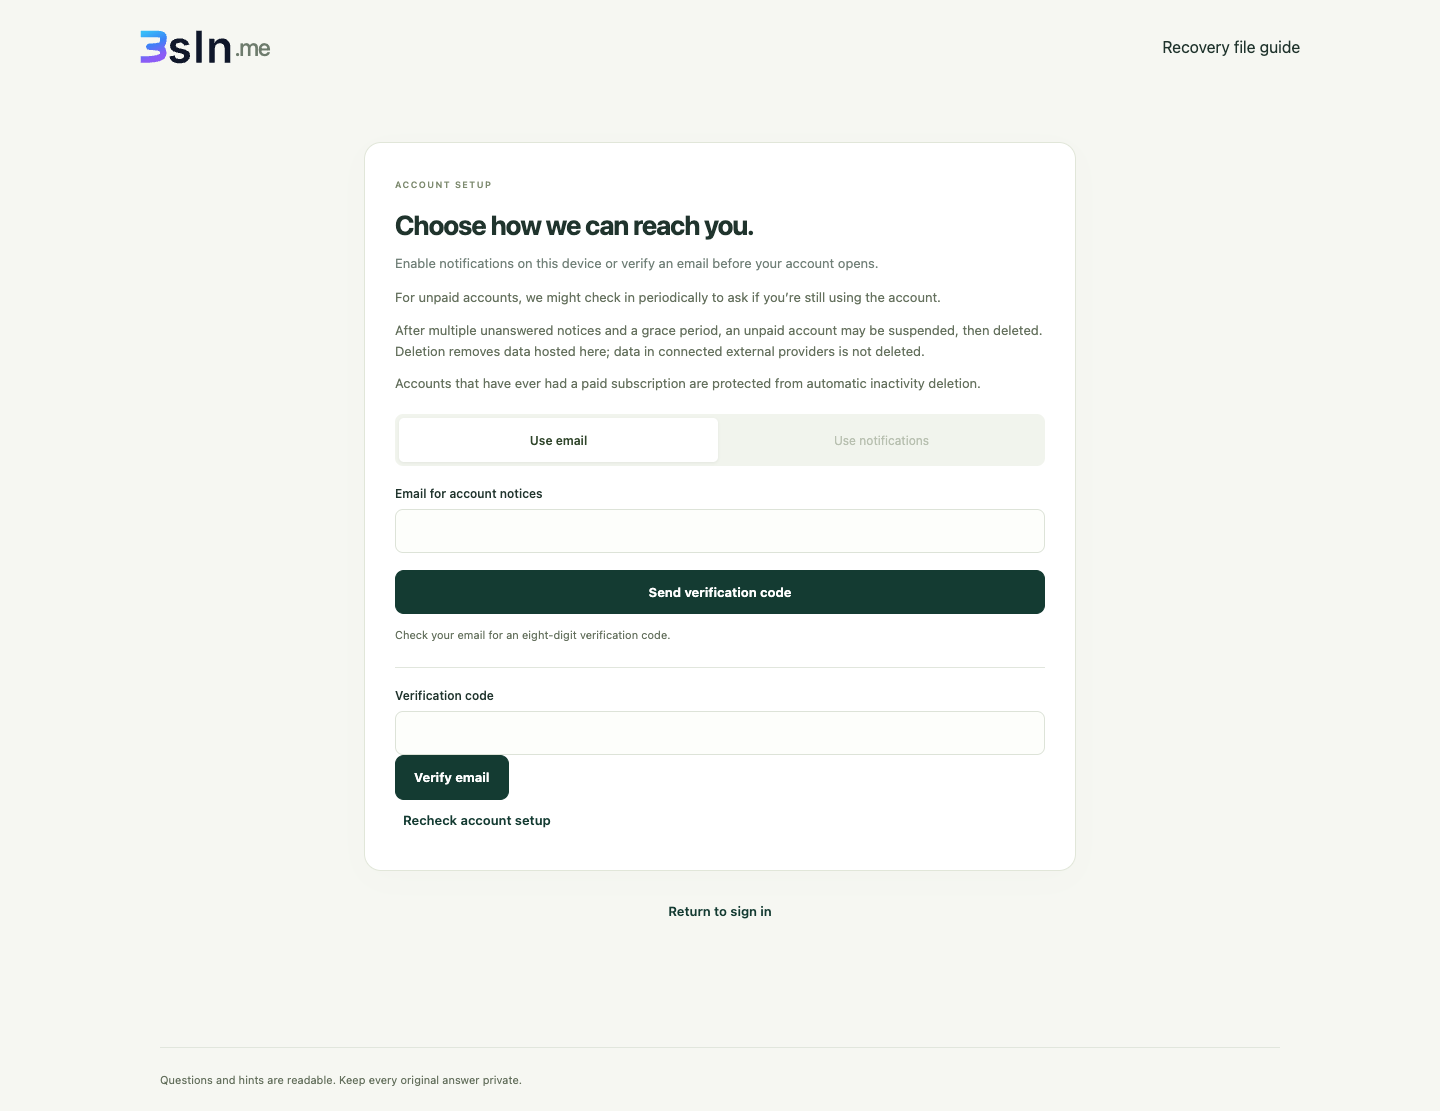
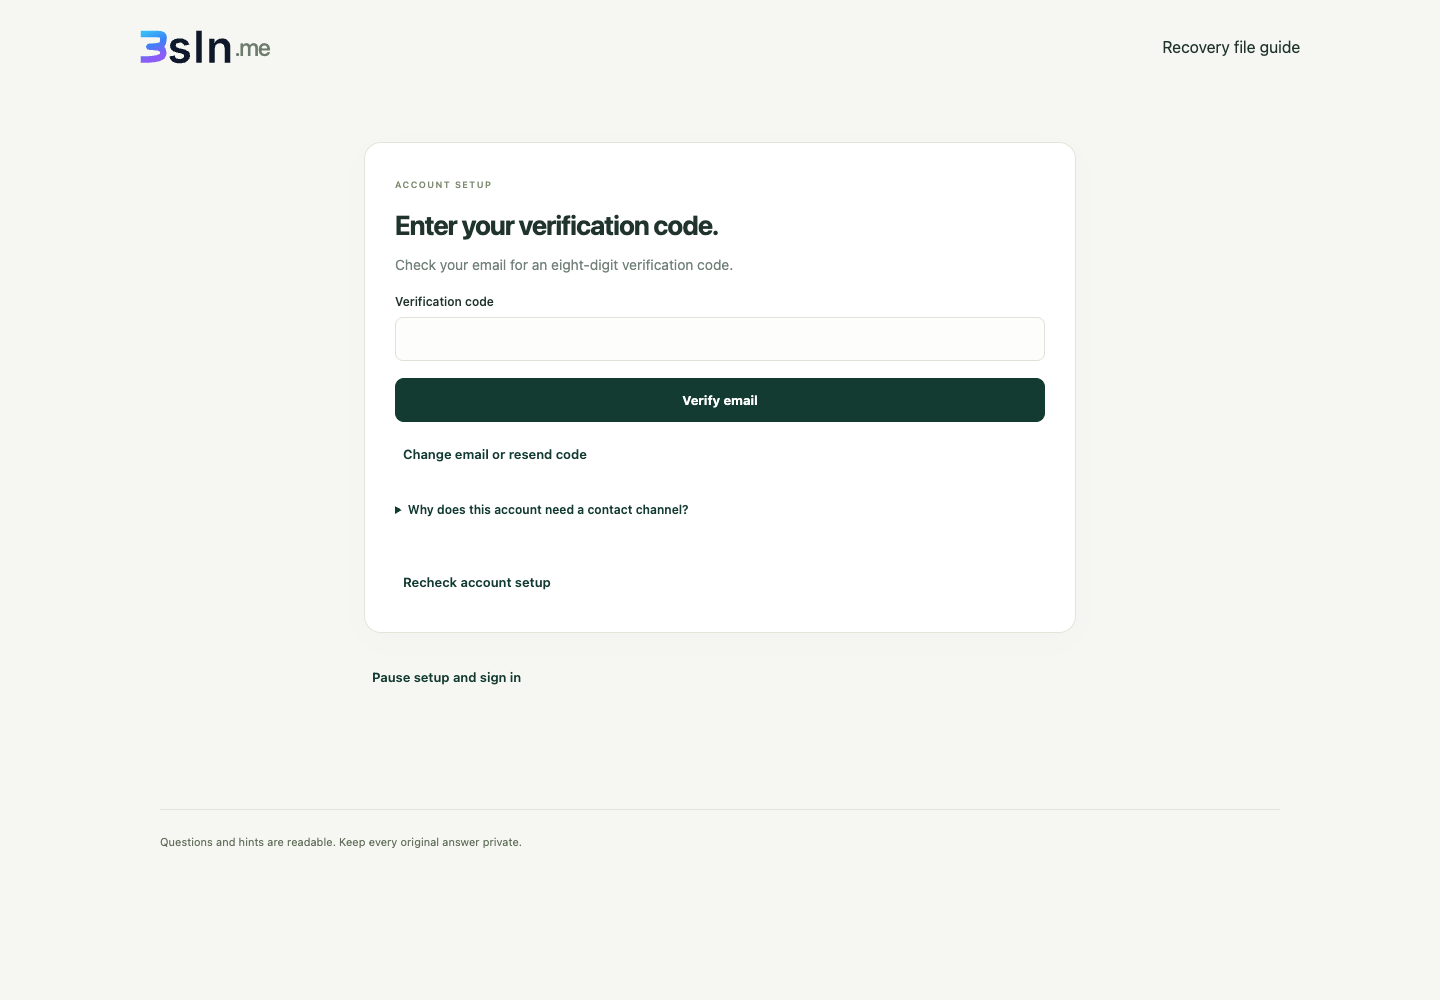
Record verified portal and device walkthrough screenshots

diff --git a/docs/walkthrough.html b/docs/walkthrough.html
@@ -144,6 +144,33 @@
 <p><img src="walkthrough-assets/live-system-theme-dark-1440.png" alt="Production dark landing on desktop"></p>
 <p><img src="walkthrough-assets/live-system-theme-dark-320.png" alt="Production dark entry at320pixels"></p>
 <p>Fresh productionChrome checks cover light/dark at320/1440pixels: correct palette/logo,12pxselectorarrow, stable widget identity through preference switches, no horizontal overflow or runtime errors. Local browser checks additionally cover Spanish, contrast, focus, contact/recovery/MCP pages and the console. No production account or message was created.</p>
+<h2>34. Guided signup, neutral dark mode, and automatic TV sign-in</h2>
+<p>Source7be2b62, assetbuild1fcee438b80c6a9d365a, Worker18430d4c-1ccf-49df-b21d-1e083b67e02f. The public page now explains three practical benefits: one account for compatible apps, storage you choose, and controlled contact links. Recovery details remain in setup. The misleading Service status placeholder has been removed from the landing footer. Dark surfaces are neutral charcoal; this supersedes the green-tinted dark palette in appendix33.</p>
+<h3>Signup asks one question at a time</h3>
+<p>Choose a sign-in method, a contact channel, an email address when relevant, accept terms, then create the credential. Verification and the downloaded/tested recovery file still gate activation. Back navigation preserves relevant choices and private email drafts; changing language or theme preserves native inputs. A failed submitted signup requires a fresh security proof. No request is sent while the automatic security check is still running.</p>
+<p><img src="walkthrough-assets/signup-wizard-method-en-light-1440.png" alt="Signup method on desktop"></p>
+<p><img src="walkthrough-assets/signup-wizard-method-en-dark-320.png" alt="Charcoal signup on a small screen"></p>
+<p><img src="walkthrough-assets/signup-wizard-contact-en-light-320.png" alt="Choose a contact channel"></p>
+<p><img src="walkthrough-assets/signup-wizard-email-en-dark-320.png" alt="Enter the email to verify"></p>
+<p><img src="walkthrough-assets/signup-wizard-terms-en-light-320.png" alt="Terms as a separate step"></p>
+<p><img src="walkthrough-assets/signup-wizard-credential-en-dark-320.png" alt="Credential as a separate step"></p>
+<p><img src="walkthrough-assets/signup-wizard-password-es-dark-320.png" alt="Spanish credential step"></p>
+<p>These staged screenshots use controlled local browser fixtures. Actual local Node and Worker checks separately exercise passkey/password setup, mandatory email proof, recovery download/test, pending resume and assertion login. Pause clears local authority and cancels KDF work; late completions cannot restore it. It does not undo an activation already submitted with the user&#39;s confirmation.</p>
+<h3>Phone and TV sign-in advances automatically</h3>
+<p>After choosing phone/TV sign-in, the page displays a spinner while Turnstile checks and the QR request is prepared. Turnstile remains interaction-only. The QR appears without a second Show QR click. Request errors require explicit retry; failed polling cannot create an automatic retry loop. The phone still requires explicit approval after comparing the code on both screens.</p>
+<p><img src="walkthrough-assets/live-automatic-tv-qr.png" alt="Actual local Worker automatically generated TV QR"></p>
+<p><img src="walkthrough-assets/live-automatic-tv-approved.png" alt="Actual local Worker TV signed in after explicit phone approval"></p>
+<p>The TV screenshots use real local Worker authentication with test accounts, rather than a production phone approval. Deterministic backend race tests separately establish that successful cancellation fences pending session issuance or revokes only the linked session, preserving other devices. A late cookie may arrive but the revoked token has no authority. Failed/uncertain cancellation is reported honestly; legacy unlinked consumed requests cannot claim targeted revocation.</p>
+<h3>Receipt protection and CI</h3>
+<p>The same deployment includes supplemental recipient-wide and contact-parent count/byte admission limits, documented in the public messaging specification. Confirmed plan capacity, stable parent-token identity, durable counters and authorized matching-replay behavior are tested. Failed downstream attempts can conservatively consume an admission. Automated multi-label classification and rejection-summary delivery remain separately designed features, with independent budgets and paid per-ingress opt-in proposed.</p>
+<p>Final evidence: local core637/637 (includes12 isolated lifecycle draft tests outside the commit), actualworkerd37/37, UIstate82/82 and focusedChrome18/18. Independent reviewer action/provider28/28 and backend cancellation9/9 passed. Linux notification fixtures now set their permission state explicitly, retaining denied/unsupported and old-service-worker safety checks. <a href="https://github.com/3sln/3sln.me/actions/runs/38476903697">GitHub Checks succeeded for the published source</a>.</p>
+<h3>Production screenshots and checks</h3>
+<p>Fresh anonymous Chrome checks confirm the published benefit copy, removed status placeholder, light/charcoal surfaces,12pxselectorarrow, no horizontal overflow at320/1440pixels, and no runtime errors. Guided signup reaches the credential screen one question at a time; returning to the email step preserves the draft. The test did not submit signup, send mail, create an account or approve a login.</p>
+<p><img src="walkthrough-assets/live-portal-neutral-dark-1440.png" alt="Published neutral dark landing"></p>
+<p><img src="walkthrough-assets/live-portal-neutral-light-1440.png" alt="Published light landing"></p>
+<p><img src="walkthrough-assets/live-portal-signup-dark-320.png" alt="Published signup on a small screen"></p>
+<p><img src="walkthrough-assets/live-portal-device-check.png" alt="Production device flow waiting for its security check"></p>
+<p>The production headless device probe remained at the security check and was cancelled through the UI; no device-start response or phone approval was observed. It therefore establishes the waiting/cancel interface rather than a positive production QR/login. Automatic QR and explicit approval are established by the actual localWorker screenshots/tests above. No security check was bypassed.</p>
 </main>
 </body>
 </html>

diff --git a/docs/walkthrough.md b/docs/walkthrough.md
@@ -300,3 +300,59 @@ Published source52bb3bc, Workerda76c802-982b-43d8-b164-adadbaac4416. Landing and
 ![Production dark entry at320pixels](walkthrough-assets/live-system-theme-dark-320.png)
 
 Fresh productionChrome checks cover light/dark at320/1440pixels: correct palette/logo,12pxselectorarrow, stable widget identity through preference switches, no horizontal overflow or runtime errors. Local browser checks additionally cover Spanish, contrast, focus, contact/recovery/MCP pages and the console. No production account or message was created.
+
+
+## 34. Guided signup, neutral dark mode, and automatic TV sign-in
+
+Source7be2b62, assetbuild1fcee438b80c6a9d365a, Worker18430d4c-1ccf-49df-b21d-1e083b67e02f. The public page now explains three practical benefits: one account for compatible apps, storage you choose, and controlled contact links. Recovery details remain in setup. The misleading Service status placeholder has been removed from the landing footer. Dark surfaces are neutral charcoal; this supersedes the green-tinted dark palette in appendix33.
+
+### Signup asks one question at a time
+
+Choose a sign-in method, a contact channel, an email address when relevant, accept terms, then create the credential. Verification and the downloaded/tested recovery file still gate activation. Back navigation preserves relevant choices and private email drafts; changing language or theme preserves native inputs. A failed submitted signup requires a fresh security proof. No request is sent while the automatic security check is still running.
+
+![Signup method on desktop](walkthrough-assets/signup-wizard-method-en-light-1440.png)
+
+![Charcoal signup on a small screen](walkthrough-assets/signup-wizard-method-en-dark-320.png)
+
+![Choose a contact channel](walkthrough-assets/signup-wizard-contact-en-light-320.png)
+
+![Enter the email to verify](walkthrough-assets/signup-wizard-email-en-dark-320.png)
+
+![Terms as a separate step](walkthrough-assets/signup-wizard-terms-en-light-320.png)
+
+![Credential as a separate step](walkthrough-assets/signup-wizard-credential-en-dark-320.png)
+
+![Spanish credential step](walkthrough-assets/signup-wizard-password-es-dark-320.png)
+
+These staged screenshots use controlled local browser fixtures. Actual local Node and Worker checks separately exercise passkey/password setup, mandatory email proof, recovery download/test, pending resume and assertion login. Pause clears local authority and cancels KDF work; late completions cannot restore it. It does not undo an activation already submitted with the user's confirmation.
+
+### Phone and TV sign-in advances automatically
+
+After choosing phone/TV sign-in, the page displays a spinner while Turnstile checks and the QR request is prepared. Turnstile remains interaction-only. The QR appears without a second Show QR click. Request errors require explicit retry; failed polling cannot create an automatic retry loop. The phone still requires explicit approval after comparing the code on both screens.
+
+![Actual local Worker automatically generated TV QR](walkthrough-assets/live-automatic-tv-qr.png)
+
+![Actual local Worker TV signed in after explicit phone approval](walkthrough-assets/live-automatic-tv-approved.png)
+
+The TV screenshots use real local Worker authentication with test accounts, rather than a production phone approval. Deterministic backend race tests separately establish that successful cancellation fences pending session issuance or revokes only the linked session, preserving other devices. A late cookie may arrive but the revoked token has no authority. Failed/uncertain cancellation is reported honestly; legacy unlinked consumed requests cannot claim targeted revocation.
+
+### Receipt protection and CI
+
+The same deployment includes supplemental recipient-wide and contact-parent count/byte admission limits, documented in the public messaging specification. Confirmed plan capacity, stable parent-token identity, durable counters and authorized matching-replay behavior are tested. Failed downstream attempts can conservatively consume an admission. Automated multi-label classification and rejection-summary delivery remain separately designed features, with independent budgets and paid per-ingress opt-in proposed.
+
+Final evidence: local core637/637 (includes12 isolated lifecycle draft tests outside the commit), actualworkerd37/37, UIstate82/82 and focusedChrome18/18. Independent reviewer action/provider28/28 and backend cancellation9/9 passed. Linux notification fixtures now set their permission state explicitly, retaining denied/unsupported and old-service-worker safety checks. [GitHub Checks succeeded for the published source](https://github.com/3sln/3sln.me/actions/runs/38476903697).
+
+
+### Production screenshots and checks
+
+Fresh anonymous Chrome checks confirm the published benefit copy, removed status placeholder, light/charcoal surfaces,12pxselectorarrow, no horizontal overflow at320/1440pixels, and no runtime errors. Guided signup reaches the credential screen one question at a time; returning to the email step preserves the draft. The test did not submit signup, send mail, create an account or approve a login.
+
+![Published neutral dark landing](walkthrough-assets/live-portal-neutral-dark-1440.png)
+
+![Published light landing](walkthrough-assets/live-portal-neutral-light-1440.png)
+
+![Published signup on a small screen](walkthrough-assets/live-portal-signup-dark-320.png)
+
+![Production device flow waiting for its security check](walkthrough-assets/live-portal-device-check.png)
+
+The production headless device probe remained at the security check and was cancelled through the UI; no device-start response or phone approval was observed. It therefore establishes the waiting/cancel interface rather than a positive production QR/login. Automatic QR and explicit approval are established by the actual localWorker screenshots/tests above. No security check was bypassed.

diff --git a/DEVLOG.md b/DEVLOG.md
@@ -764,3 +764,5 @@ Phone/TV now starts one request automatically when private Turnstile proof is re
 Independent frontend/security audit found no unresolved blocker in this scope: own28/28 action/provider checks, inspectedUIstate82/82 and finalfocusedChrome18/18. Coordinator finalcore637/637 (12 unused uncommitted lifecycle model tests excluded from the commit), actualworkerd37/37. Independent desktop/mobile visual checks confirm neutralcharcoal, balancedselector, beneficiarymarketing and no public status-placeholder entry. Browser screenshots includeEN/ES,320/1440,light/dark, all signupsteps and localWorker TVhandshake. No production account, message, email or modelinference was created by these localchecks. Deployment/CI finalverification pending.
 
 CI investigation: latest mainChecks run38472580651 had55/57 browsercases pass and two notification fixtures timing out on disabled controls under Linuxnativepermissionstate. Core/Worker/DOM/build checks passed. Make fixturepermission explicitlydefault beforebootstrap; retain actual denied/unsupported checks and old-service-worker no-false-proof/no-permission-call assertions. No forced clicks, skipped tests or weaker production guards. Final LinuxCI proof remains pending on the upcoming commit.
+
+Integrated portal deployed: source7be2b62, Worker18430d4c-1ccf-49df-b21d-1e083b67e02f. LinuxGitHubChecks run38476903697 concludes success and produced its browser-evidence artifact; no remote test count inferred from initially incomplete logs. Fresh productionChrome light/dark320/1440 confirms neutralcharcoal/backgroundscheme,12pxselectorarrow, beneficiarycopy, no statusbutton, no overflow/runtimeerrors and guidedsignup/back preservation without submitting signup. Productionheadless device probe remained in securitycheck then canceled viaUI; no successful productionQR/phoneapproval claimed. ActuallocalWorkerautomaticQR+explicitphoneapproval and deterministic cancellationraces remain separate evidence. Privatewalkthrough appendix34 contains local and production screenshots. Classification/alertsender/SMTPbridge/v2encryptedarchives remain separate pending work; productionreleaseReady gate remains false. No productionaccount/message/mail/modelinference created by thesechecks.
